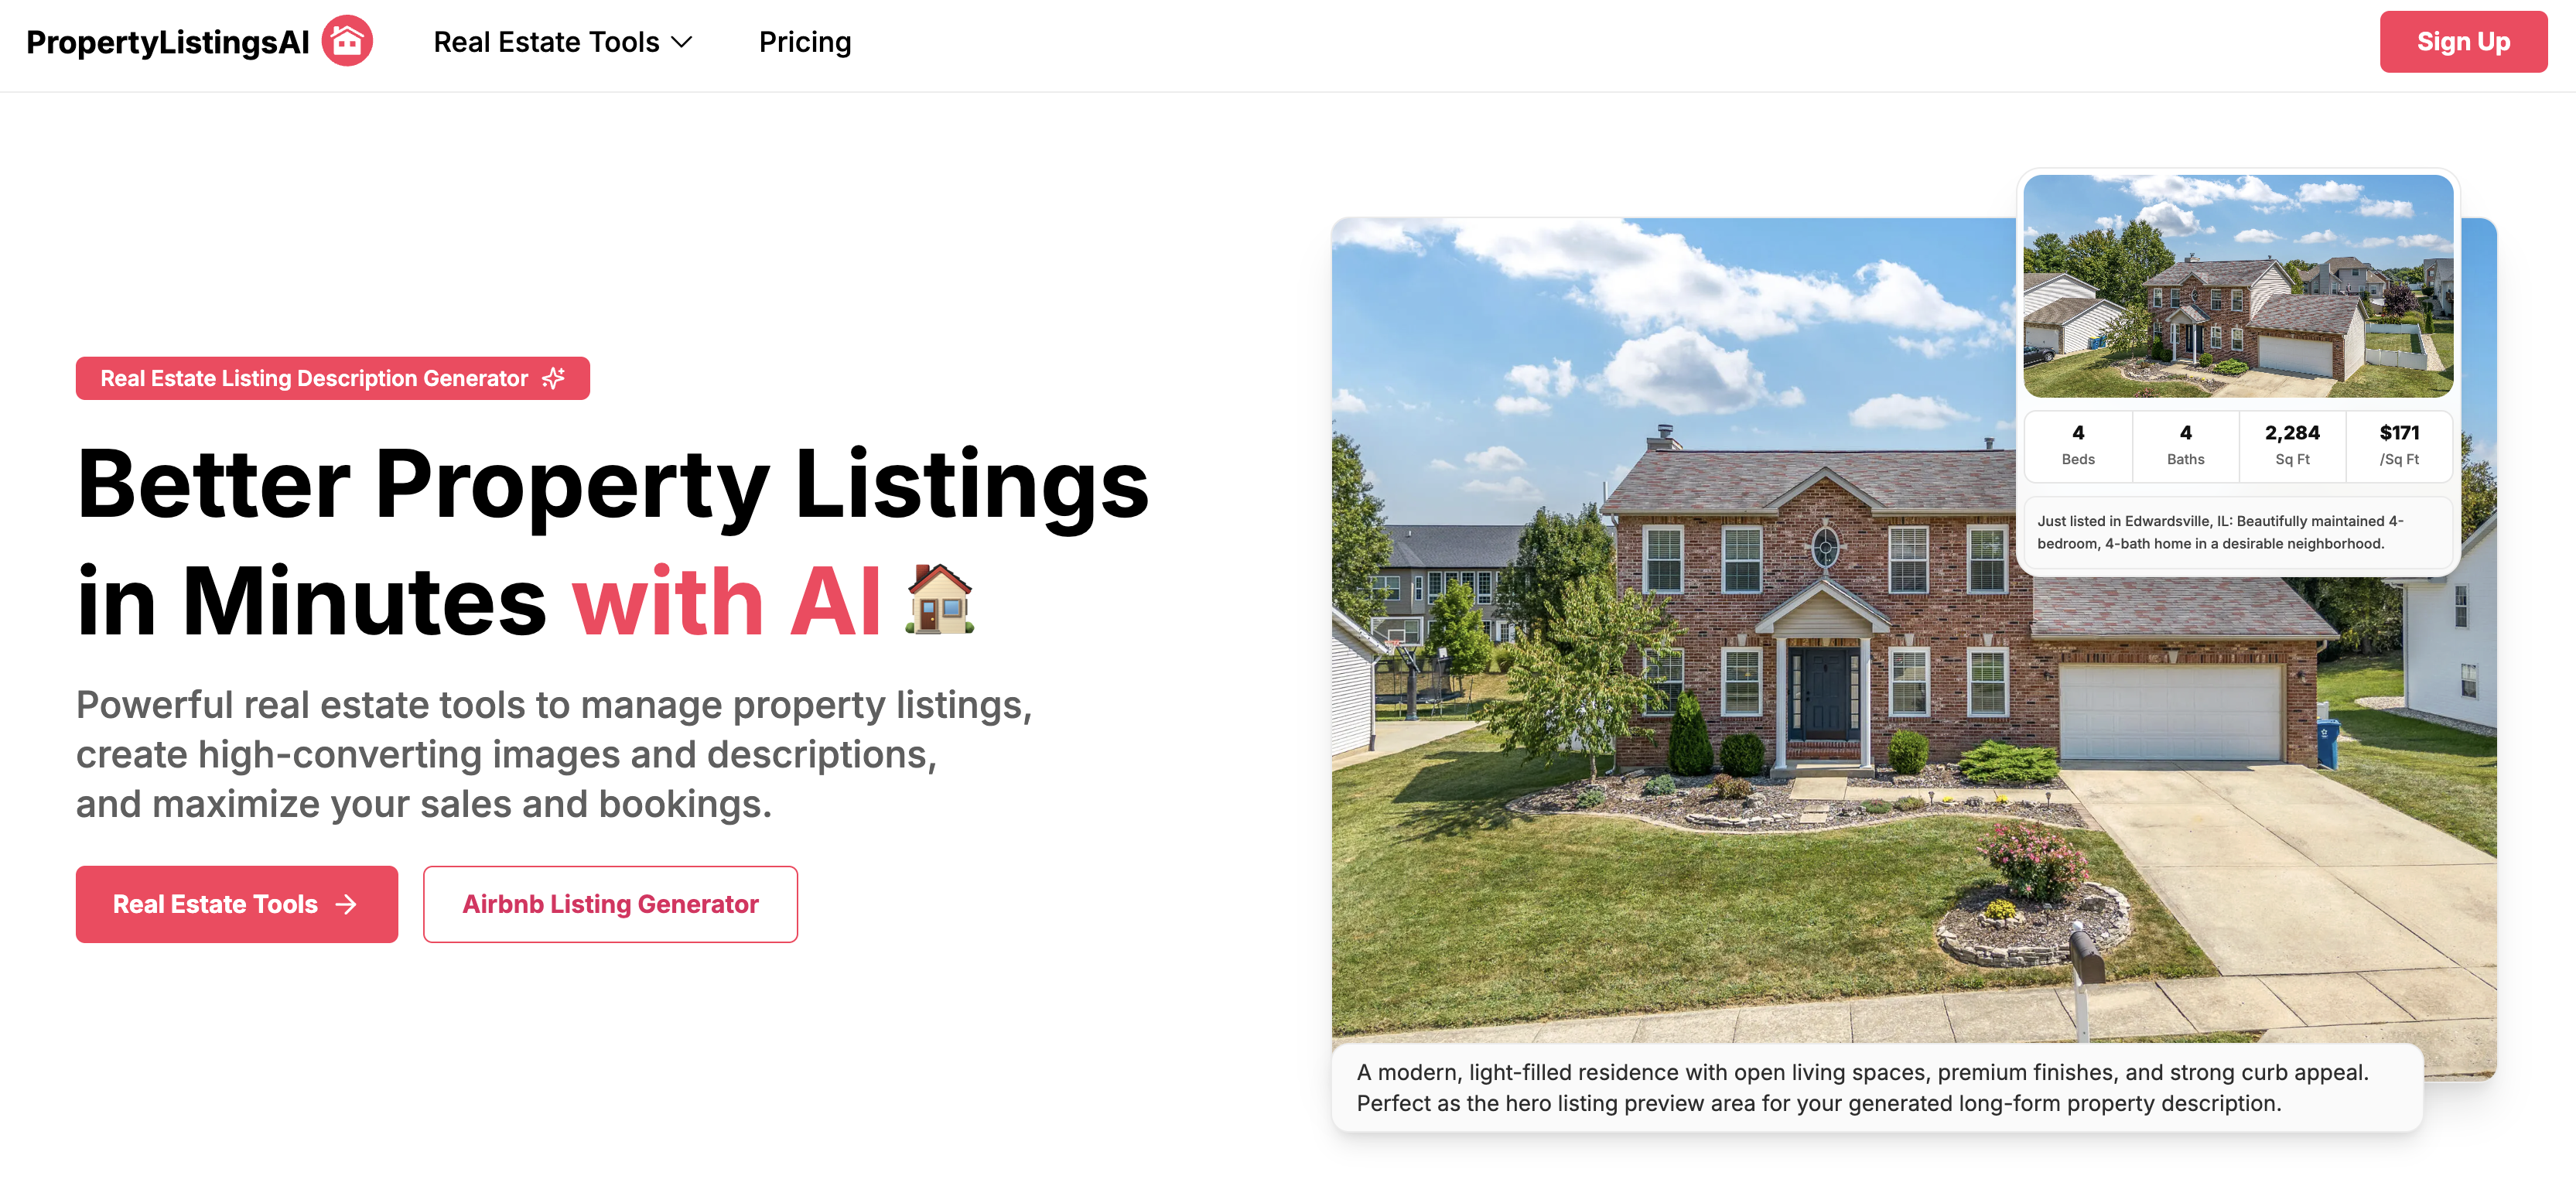
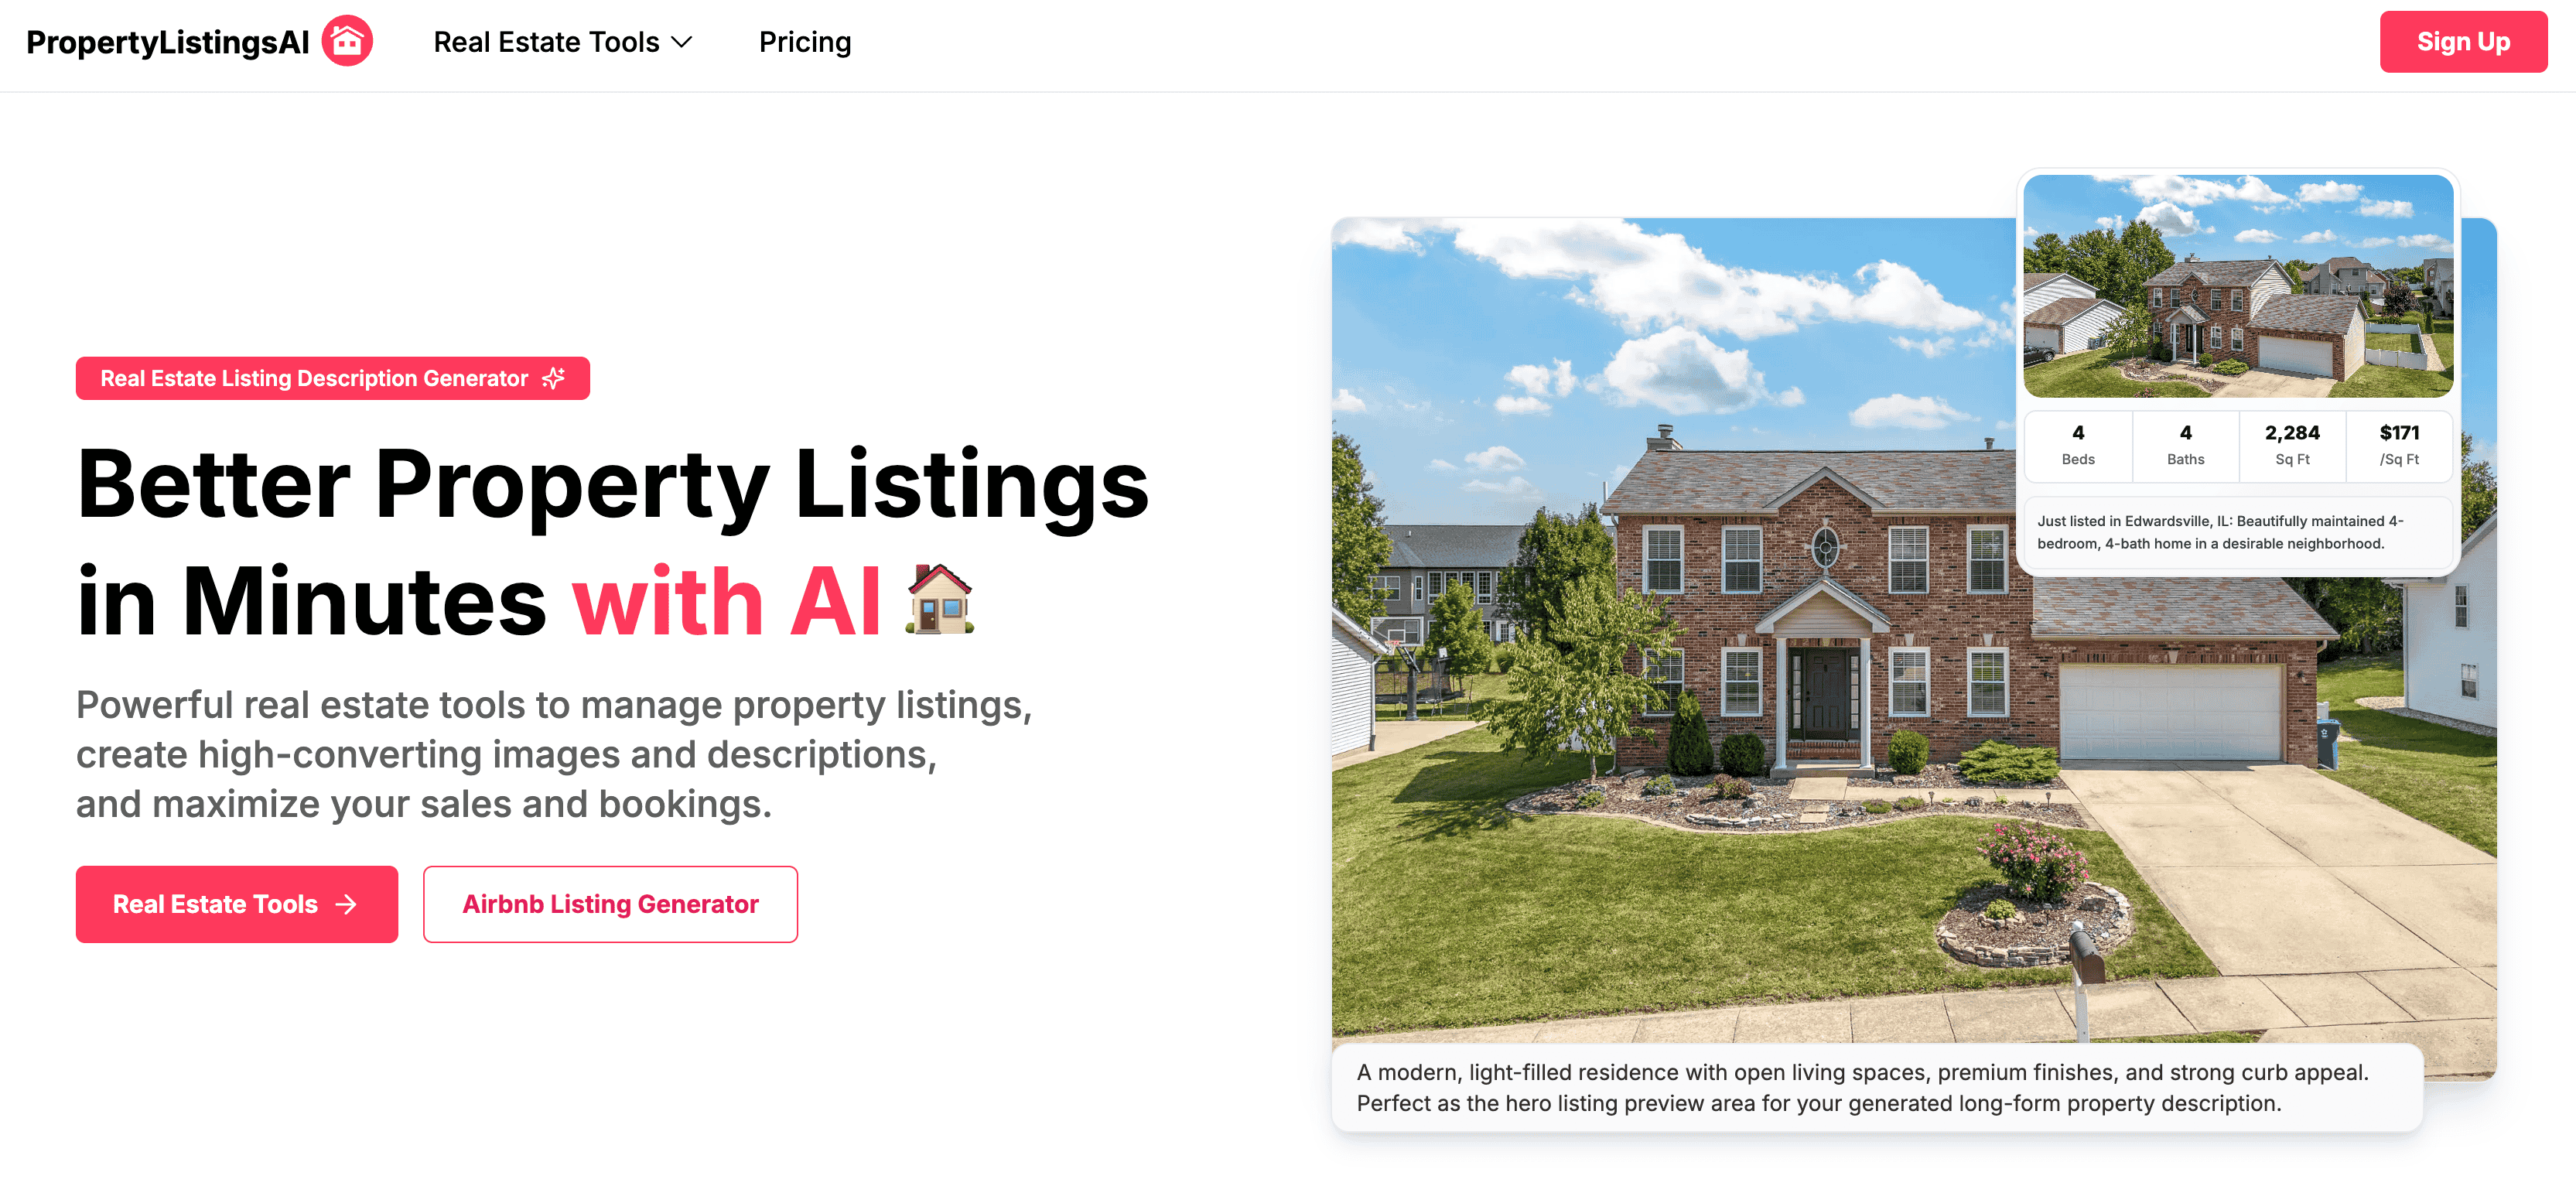
ewss

diff --git a/app/page.tsx b/app/page.tsx
@@ -4,7 +4,9 @@ import Link from "next/link";
 import Script from "next/script";
 import { Clock, CheckCircle } from "lucide-react"
 import { Metadata } from "next";
-import { ArrowRight, Camera, Sparkles } from "lucide-react"
+import { ArrowRight, Camera, Sparkles } from "lucide-react";
+import { FaqSection } from "@/components/FaqSection";
+import { faqJsonLd } from "@/lib/faq";
 
 export const metadata: Metadata = {
   title: 'PropertyListingsAI - Real Estate Listing Description Generator',
@@ -13,85 +15,6 @@ export const metadata: Metadata = {
 
 
 export default function Home() {
-  const faqSchema = {
-    "@context": "https://schema.org",
-    "@type": "FAQPage",
-    mainEntity: [
-      {
-        "@type": "Question",
-        name: "How does PropertyListingsAI work?",
-        acceptedAnswer: {
-          "@type": "Answer",
-          text: "Upload your property photos and details, then PropertyListingsAI generates listing titles, descriptions, highlights, rules, and directions in seconds.",
-        },
-      },
-      {
-        "@type": "Question",
-        name: "What is included in the $9.99 plan?",
-        acceptedAnswer: {
-          "@type": "Answer",
-          text: "The plan includes 15 credits for $9.99, ideal for creating listings across major real estate platforms.",
-        },
-      },
-      {
-        "@type": "Question",
-        name: "What are Airbnb title and description limits?",
-        acceptedAnswer: {
-          "@type": "Answer",
-          text: "For Airbnb-friendly copy in PropertyListingsAI, use up to 50 characters for the title and up to 500 characters for the description.",
-        },
-      },
-      {
-        "@type": "Question",
-        name: "Can I generate property listing descriptions for Airbnb, Zillow, and Booking.com?",
-        acceptedAnswer: {
-          "@type": "Answer",
-          text: "Yes. The generated descriptions are designed to be adapted for platforms like Airbnb, Zillow, RE/MAX, Booking.com, and Vrbo.",
-        },
-      },
-      {
-        "@type": "Question",
-        name: "Who is PropertyListingsAI best for?",
-        acceptedAnswer: {
-          "@type": "Answer",
-          text: "Property managers, real estate agents, Airbnb hosts, and short-term rental operators who want faster listing creation and better marketing copy.",
-        },
-      },
-      {
-        "@type": "Question",
-        name: "What is a real estate listing?",
-        acceptedAnswer: {
-          "@type": "Answer",
-          text: "A real estate listing is a description of a property for sale or rent. It includes details such as the location, size, number of bedrooms and bathrooms, and features of the property. PropertyListingsAI helps you turn those facts into polished titles, descriptions, and supporting copy for your marketing.",
-        },
-      },
-      {
-        "@type": "Question",
-        name: "How does PropertyListingsAI create listing content?",
-        acceptedAnswer: {
-          "@type": "Answer",
-          text: "PropertyListingsAI uses AI to help you build compelling real estate and short-term rental listings. You enter property details such as type, location, size, and features—or upload photos—and our generators produce tailored copy for Airbnb-style listings, long-form property descriptions, house rules, and driving directions. The same workflow applies across all PropertyListingsAI tools so you can publish faster.",
-        },
-      },
-      {
-        "@type": "Question",
-        name: "How long should a real estate listing be?",
-        acceptedAnswer: {
-          "@type": "Answer",
-          text: "The ideal length for a real estate listing can vary depending on the platform and target audience, but generally it should be concise yet informative. A good rule of thumb is to aim for 150-200 words for the main description so you can highlight key features without overwhelming buyers or renters. For online listings, use separate fields for square footage, bedrooms, and similar details where available. PropertyListingsAI is designed to help you stay clear and engaging while you adapt length to each site’s limits.",
-        },
-      },
-      {
-        "@type": "Question",
-        name: "What websites can I use PropertyListingsAI for?",
-        acceptedAnswer: {
-          "@type": "Answer",
-          text: "You can adapt PropertyListingsAI output for major real estate portals such as Zillow, Trulia, PropertyGuru, 99.co, and Realtor.com; Multiple Listing Service (MLS) listings; agency and agent websites; social media and classified sites; and short-term rental platforms like Airbnb and Vrbo.",
-        },
-      },
-    ],
-  };
-
   return (
     <>
 <section className="relative z-10 mx-auto max-w-9xl px-4 py-10 sm:px-6 sm:py-12 lg:px-16 lg:py-20">
@@ -616,89 +539,12 @@ export default function Home() {
   </div>
 </section>
 
-<section className="mx-4 mt-10 mb-8 lg:mx-10">
-  <div className="w-full rounded-2xl bg-white p-6 lg:p-8">
-    <h2 className="text-center text-2xl font-bold text-gray-900 lg:text-4xl">Frequently Asked Questions (FAQ)</h2>
-
-    <div className="mx-auto mt-8 max-w-4xl space-y-4">
-      <div className="rounded-md border border-gray-200 bg-[#fafafa] p-4">
-        <h3 className="text-center font-semibold text-gray-900 text-lg">How does PropertyListingsAI work?</h3>
-        <p className="mt-2 text-md leading-relaxed text-gray-600">
-          Upload your property photos and details, then PropertyListingsAI generates listing titles, descriptions,
-          highlights, rules, and directions in seconds.
-        </p>
-      </div>
-      <div className="rounded-md border border-gray-200 bg-[#fafafa] p-4">
-        <h3 className="text-center font-semibold text-gray-900 text-lg">What is included in the $9.99 plan?</h3>
-        <p className="mt-2 text-md leading-relaxed text-gray-600">
-          The plan includes 15 credits for $9.99, ideal for creating listings across major real
-          estate and vacation rental platforms.
-        </p>
-      </div>
-      <div className="rounded-md border border-gray-200 bg-[#fafafa] p-4">
-        <h3 className="text-center font-semibold text-gray-900 text-lg">What are Airbnb title and description limits?</h3>
-        <p className="mt-2 text-md leading-relaxed text-gray-600">
-          For Airbnb-friendly copy in PropertyListingsAI, use up to 50 characters for the title and up to
-          500 characters for the description.
-        </p>
-      </div>
-      <div className="rounded-md border border-gray-200 bg-[#fafafa] p-4">
-        <h3 className="text-center font-semibold text-gray-900 text-lg">Can I generate property listing descriptions for Airbnb, Zillow, and Booking.com?</h3>
-        <p className="mt-2 text-md leading-relaxed text-gray-600">
-        Yes. The generated descriptions are designed to be adapted for platforms like Airbnb, Zillow, RE/MAX, Booking.com,
-          and Vrbo.
-        </p>
-      </div>
-      <div className="rounded-md border border-gray-200 bg-[#fafafa] p-4">
-        <h3 className="text-center font-semibold text-gray-900 text-lg">Who is this tool best for?</h3>
-        <p className="mt-2 text-md leading-relaxed text-gray-600">
-          Property managers, real estate agents, Airbnb hosts, and short-term rental operators who want faster
-          listing creation and better marketing copy.
-        </p>
-      </div>
-      <div className="rounded-md border border-gray-200 bg-[#fafafa] p-4">
-        <h3 className="text-center font-semibold text-gray-900 text-lg">What is a real estate listing?</h3>
-        <p className="mt-2 text-md leading-relaxed text-gray-600">
-          A real estate listing is a description of a property for sale or rent. It includes details such as the
-          location, size, number of bedrooms and bathrooms, and features of the property. PropertyListingsAI helps you turn those facts into polished titles, descriptions, and supporting copy
-          for your marketing.
-        </p>
-      </div>
-      <div className="rounded-md border border-gray-200 bg-[#fafafa] p-4">
-        <h3 className="text-center font-semibold text-gray-900 text-lg">How does PropertyListingsAI create listing content?</h3>
-        <p className="mt-2 text-md leading-relaxed text-gray-600">
-          PropertyListingsAI uses AI to help you build compelling real estate and short-term rental listings. You
-          enter property details such as type, location, size, and features—or upload photos—and our generators
-          produce tailored copy for Airbnb-style listings, long-form property descriptions, house rules, and driving
-          directions. The same workflow applies across all PropertyListingsAI tools so you can publish faster.
-        </p>
-      </div>
-      <div className="rounded-md border border-gray-200 bg-[#fafafa] p-4">
-        <h3 className="text-center font-semibold text-gray-900 text-lg">How long should a real estate listing be?</h3>
-        <p className="mt-2 text-md leading-relaxed text-gray-600">
-          The ideal length for a real estate listing can vary depending on the platform and target audience, but
-          generally it should be concise yet informative. A good rule of thumb is to aim for 150-200 words for the main
-          description so you can highlight key features without overwhelming buyers or renters. For online listings,
-          use separate fields for square footage, bedrooms, and similar details where available. PropertyListingsAI is
-          designed to help you stay clear and engaging while you adapt length to each site&apos;s limits.
-        </p>
-      </div>
-      <div className="rounded-md border border-gray-200 bg-[#fafafa] p-4">
-        <h3 className="text-center font-semibold text-gray-900 text-lg">What websites can I use PropertyListingsAI for?</h3>
-        <p className="mt-2 text-md leading-relaxed text-gray-600">
-          You can adapt PropertyListingsAI output for major real estate portals such as Zillow, Trulia, PropertyGuru,
-          99.co, and Realtor.com; Multiple Listing Service (MLS) listings; agency and agent websites; social media and
-          classified sites; and short-term rental platforms like Airbnb and Vrbo.
-        </p>
-      </div>
-    </div>
-  </div>
-</section>
+<FaqSection />
 
 <Script
   id="faq-schema"
   type="application/ld+json"
-  dangerouslySetInnerHTML={{ __html: JSON.stringify(faqSchema) }}
+  dangerouslySetInnerHTML={{ __html: JSON.stringify(faqJsonLd) }}
 />
 
 

diff --git a/lib/faq.ts b/lib/faq.ts
@@ -1,0 +1,66 @@
+export type FaqItem = {
+  question: string;
+  answer: string;
+};
+
+/** Single source of truth for homepage + /faq */
+export const FAQ_ITEMS: FaqItem[] = [
+  {
+    question: "How does PropertyListingsAI work?",
+    answer:
+      "Upload your property photos and details, then PropertyListingsAI generates listing titles, descriptions, highlights, rules, and directions in seconds.",
+  },
+  {
+    question: "What is included in the $9.99 plan?",
+    answer:
+      "The plan includes 15 credits for $9.99, ideal for creating listings across major real estate and vacation rental platforms.",
+  },
+  {
+    question: "What are Airbnb title and description limits?",
+    answer:
+      "For Airbnb-friendly copy in PropertyListingsAI, use up to 50 characters for the title and up to 500 characters for the description.",
+  },
+  {
+    question: "Can I generate property listing descriptions for Airbnb, Zillow, and Booking.com?",
+    answer:
+      "Yes. The generated descriptions are designed to be adapted for platforms like Airbnb, Zillow, RE/MAX, Booking.com, and Vrbo.",
+  },
+  {
+    question: "Who is this tool best for?",
+    answer:
+      "Property managers, real estate agents, Airbnb hosts, and short-term rental operators who want faster listing creation and better marketing copy.",
+  },
+  {
+    question: "What is a real estate listing?",
+    answer:
+      "A real estate listing is a description of a property for sale or rent. It includes details such as the location, size, number of bedrooms and bathrooms, and features of the property. PropertyListingsAI helps you turn those facts into polished titles, descriptions, and supporting copy for your marketing.",
+  },
+  {
+    question: "How does PropertyListingsAI create listing content?",
+    answer:
+      "PropertyListingsAI uses AI to help you build compelling real estate and short-term rental listings. You enter property details such as type, location, size, and features—or upload photos—and our generators produce tailored copy for Airbnb-style listings, long-form property descriptions, house rules, and driving directions. The same workflow applies across all PropertyListingsAI tools so you can publish faster.",
+  },
+  {
+    question: "How long should a real estate listing be?",
+    answer:
+      "The ideal length for a real estate listing can vary depending on the platform and target audience, but generally it should be concise yet informative. A good rule of thumb is to aim for 150-200 words for the main description so you can highlight key features without overwhelming buyers or renters. For online listings, use separate fields for square footage, bedrooms, and similar details where available. PropertyListingsAI is designed to help you stay clear and engaging while you adapt length to each site's limits.",
+  },
+  {
+    question: "What websites can I use PropertyListingsAI for?",
+    answer:
+      "You can adapt PropertyListingsAI output for major real estate portals such as Zillow, Trulia, PropertyGuru, 99.co, and Realtor.com; Multiple Listing Service (MLS) listings; agency and agent websites; social media and classified sites; and short-term rental platforms like Airbnb and Vrbo.",
+  },
+];
+
+export const faqJsonLd = {
+  "@context": "https://schema.org",
+  "@type": "FAQPage",
+  mainEntity: FAQ_ITEMS.map((item) => ({
+    "@type": "Question",
+    name: item.question,
+    acceptedAnswer: {
+      "@type": "Answer",
+      text: item.answer,
+    },
+  })),
+} as const;

diff --git a/app/faq/page.tsx b/app/faq/page.tsx
@@ -1,0 +1,44 @@
+import type { Metadata } from "next";
+import Script from "next/script";
+import { FaqSection } from "@/components/FaqSection";
+import { faqJsonLd } from "@/lib/faq";
+
+const SITE_URL = "https://propertylistingsai.com";
+
+export const metadata: Metadata = {
+  title: "FAQ | PropertyListingsAI",
+  description:
+    "Answers about PropertyListingsAI: how it works, credits and pricing, Airbnb limits, who it’s for, listing length, and supported real estate platforms.",
+  openGraph: {
+    title: "FAQ | PropertyListingsAI",
+    description:
+      "Answers about PropertyListingsAI: how it works, credits, Airbnb limits, and supported platforms.",
+    url: `${SITE_URL}/faq`,
+    siteName: "PropertyListingsAI",
+    type: "website",
+  },
+  twitter: {
+    card: "summary_large_image",
+    title: "FAQ | PropertyListingsAI",
+    description:
+      "Answers about PropertyListingsAI: how it works, credits, Airbnb limits, and supported platforms.",
+  },
+  alternates: {
+    canonical: "/faq",
+  },
+};
+
+export default function FaqPage() {
+  return (
+    <>
+      <main className="min-h-[50vh] px-4 py-10 sm:px-6 lg:py-14">
+        <FaqSection className="mx-auto max-w-5xl" />
+      </main>
+      <Script
+        id="faq-page-jsonld"
+        type="application/ld+json"
+        dangerouslySetInnerHTML={{ __html: JSON.stringify(faqJsonLd) }}
+      />
+    </>
+  );
+}

diff --git a/components/FaqSection.tsx b/components/FaqSection.tsx
@@ -1,0 +1,29 @@
+import { FAQ_ITEMS } from "@/lib/faq";
+
+type FaqSectionProps = {
+  className?: string;
+};
+
+export function FaqSection({ className = "mx-4 mt-10 mb-8 lg:mx-10" }: FaqSectionProps) {
+  return (
+    <section className={className} aria-labelledby="faq-heading">
+      <div className="w-full rounded-2xl bg-white p-6 lg:p-8">
+        <h2 id="faq-heading" className="text-center text-2xl font-bold text-gray-900 lg:text-4xl">
+          Frequently Asked Questions (FAQ)
+        </h2>
+
+        <div className="mx-auto mt-8 max-w-4xl space-y-4">
+          {FAQ_ITEMS.map((item) => (
+            <div
+              key={item.question}
+              className="rounded-md border border-gray-200 bg-[#fafafa] p-4"
+            >
+              <h3 className="text-center text-lg font-semibold text-gray-900">{item.question}</h3>
+              <p className="mt-2 text-base leading-relaxed text-gray-600">{item.answer}</p>
+            </div>
+          ))}
+        </div>
+      </div>
+    </section>
+  );
+}

diff --git a/components/Footer.tsx b/components/Footer.tsx
@@ -28,6 +28,9 @@ export const Footer = () => {
           <Link href="/terms-of-use" className="text-gray-700 hover:text-[#FF385C]">
             Terms of Use
           </Link>
+          <Link href="/faq" className="text-gray-700 hover:text-[#FF385C]">
+            FAQ
+          </Link>
           <Link href="/airbnb-listing" className="text-gray-700 hover:text-[#FF385C]">
             Airbnb Listing
           </Link>

diff --git a/app/sitemap.ts b/app/sitemap.ts
@@ -10,6 +10,7 @@ export default function sitemap(): MetadataRoute.Sitemap {
     { url: 'https://propertylistingsai.com/driving-directions-generator', lastModified: currentDate, priority: 0.8 },
     { url: 'https://propertylistingsai.com/airbnb-house-rules-generator', lastModified: currentDate, priority: 0.7 },
     { url: 'https://propertylistingsai.com/pricing', lastModified: currentDate, priority: 0.7 },
+    { url: 'https://propertylistingsai.com/faq', lastModified: currentDate, priority: 0.65 },
     { url: 'https://propertylistingsai.com/terms-of-use', lastModified: currentDate, priority: 0.8 },
   ];
 }